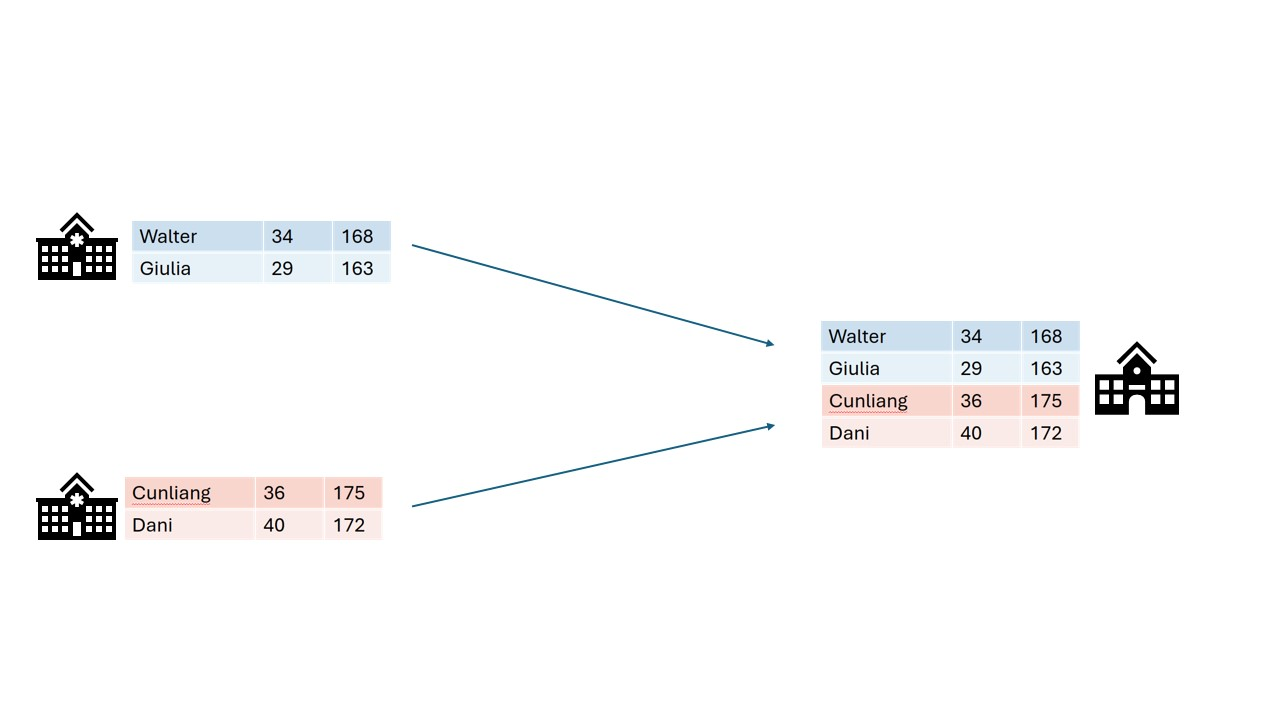
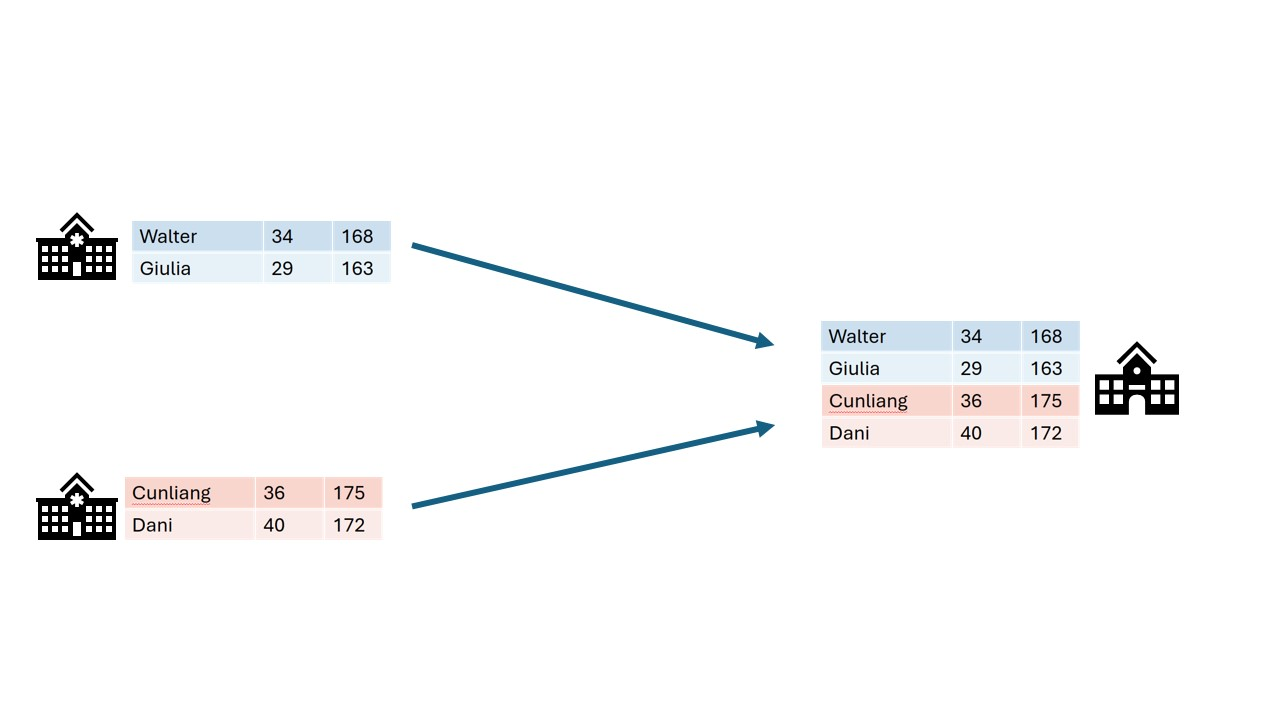
Made federated learning more clear Made arrows more thicccc

diff --git a/episodes/chap1_introduction_FL.md b/episodes/chap1_introduction_FL.md
@@ -93,12 +93,13 @@ over it. In this case, it is not the data that travels, but the analysis itself.
 a query or instruction to the data and only the results will get back to the user.
 The results are often akin to a form of _aggregation_ of the data. This can be in the shape of
 traditional
-statistics like the mean, or it can be more intricate like a machine learning model.
+statistics like the mean, or it could be a combination of aggregations to form a more complicated
+analysis.
 
 Aggregating the data does not ensure complete protection of person-level information, but it
 certainly makes it less likely that this will happen.
 
-![General flow of a federated analysis](fig/chapter1/federated%20sum.jpg)
+![In federated analysis, an aggregation of the local data is sent to a central point. At the central point the local aggregations are combined. This can also be a small step in a larger analysis.](fig/chapter1/federated_sum.jpg)
 
 TODO: Example of data leakage in simple aggregated case
 
@@ -111,7 +112,7 @@ traditional federated learning, the clients train machine learning models, and o
 the models are sent back to the central server. The central server combines the updates from all the
 individual clients into one final machine learning model.
 
-![In federated learning only the gradients of models are shared](fig/chapter1/federated%20learning.jpg)
+![In federated learning only the gradients of models are shared](fig/chapter1/federated_learning.jpg)
 
 There are caveats to using this type of data analysis though. Although the data transmitted from the
 clients to the server are an aggregation of the raw data, researchers have found a way to use this
@@ -179,7 +180,7 @@ selection of inputs with random noise. A single individual will then always be a
 their data has contributed to the final result. An individual has _plausible deniability_ with
 regards to whether it was part of the dataset.
 
-![Differential privacy replaces a subset of the data with random values](fig/chapter1/differential%20privacy.jpg)
+![Differential privacy replaces a subset of the data with random values](fig/chapter1/differential_privacy.jpg)
 
 
 ## Blocks upon blocks
